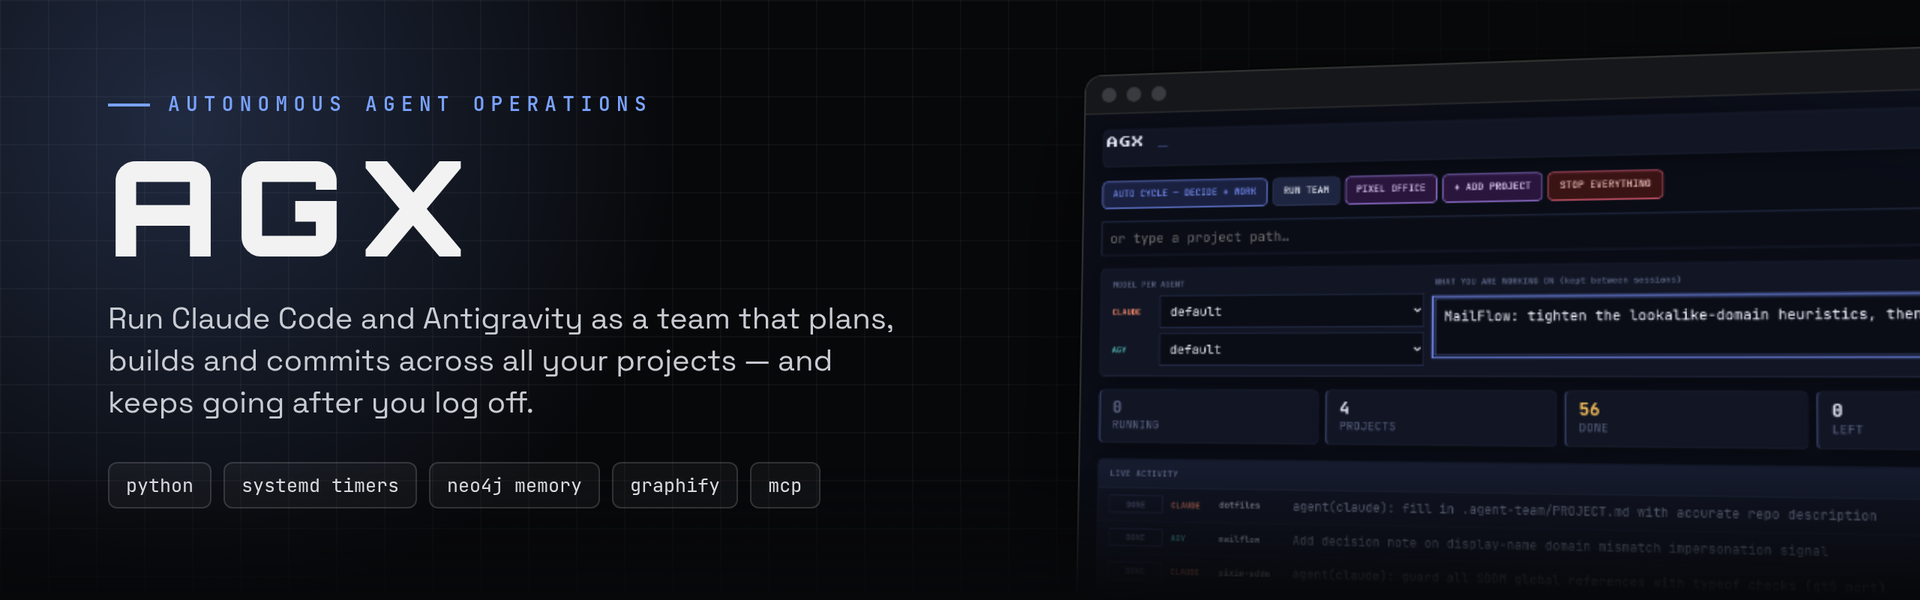
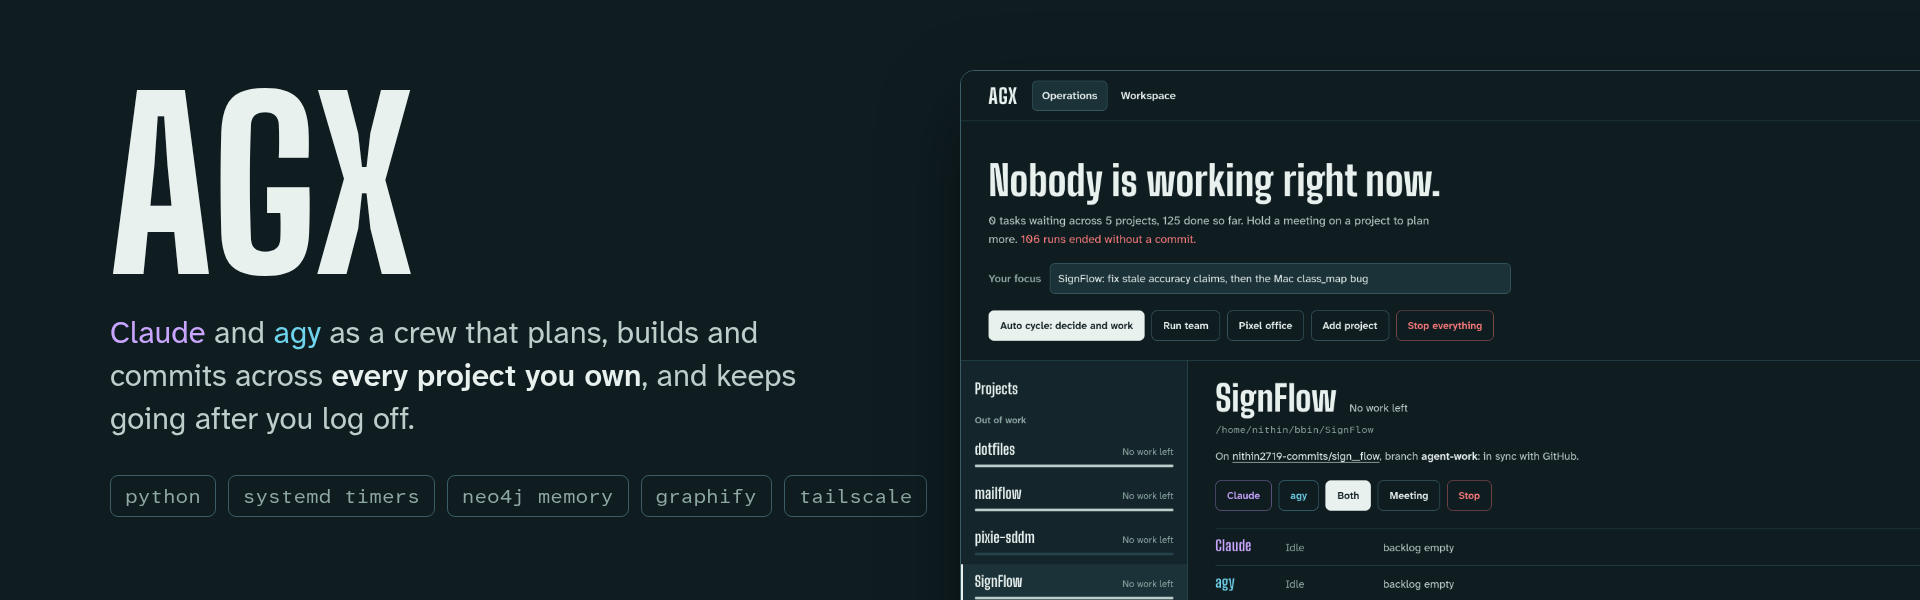
Show the new dashboard in the README and describe its layout
New banner and screenshots taken from the redesigned console with real
project data: the console on a desktop and one project on a phone. The
HOWTO's button guide now follows the list-and-detail layout and the
sentence-case button names.

diff --git a/HOWTO.md b/HOWTO.md
@@ -24,25 +24,30 @@ every restart, so a bookmarked URL goes stale.
 
 ## Doing work
 
-Everything is a button on the Operations tab. On each project card:
+The Operations tab opens with a sentence saying what the crew is doing, your
+focus note, and the whole-team buttons: **Auto cycle** (meet where work ran out,
+then work), **Run team**, **Pixel office**, **Add project** and **Stop everything**
+(kills every agent and turns off the timers).
+
+Below it, pick a project from the list on the left (on a phone, tap it; **All
+projects** goes back). Its page has:
 
 | Button | Meaning |
 |---|---|
-| **CLAUDE** / **AGY** | that agent does one task now |
-| **BOTH** | both agents, taking turns on the project |
-| **MEETING** | both agents discuss and agree the next tasks (10-20 min) |
-| **PLAN** | edit what you want them to do, then SAVE PLAN |
-| **ADD** | type a task straight into the backlog |
-| **ASK** | ask Claude or agy about the project, or WHAT HAPPENED? to read the logs |
-| **DETAILS** | meeting transcripts, work logs, recent commits |
-| **BUILD GRAPH** / **VIEW GRAPH** | rebuild or open the code knowledge graph |
-| **COMMIT** / **PUSH** | commit what the agents left, publish the branch (asks first) |
-| **STOP** | stop that project's agents |
+| **Claude** / **agy** | that agent does one task now |
+| **Both** | both agents, taking turns on the project |
+| **Meeting** | both agents discuss and agree the next tasks (10-20 min) |
+| **Stop** | stop that project's agents |
+| **Add** | type a task straight into the backlog |
+| **Plan** tab, **Edit plan** | what you want them to do; **Save plan** to keep it |
+| **Tasks** tab | every task, done, in progress and waiting |
+| **Ask** tab | ask Claude or agy about the project, or **What happened?** to read the logs |
+| **Details** tab | meeting transcripts, work logs, recent commits |
+| **Build graph** / **View graph** | rebuild or open the code knowledge graph |
+| **Commit** / **Push** | commit what the agents left, publish the branch (asks first) |
 
-Click a project's name for a full-screen view of it. Along the top:
-**AUTO CYCLE** (meet where work ran out, then work), **RUN TEAM**, **PIXEL OFFICE**,
-**+ ADD PROJECT** and **STOP EVERYTHING** (kills every agent and disables the timers).
-Typed text, open panels and the ask-the-agents chat survive the page's refresh.
+Typed text, draft plans and the conversation survive the page's refresh and
+switching between projects.
 
 Same thing from the terminal:
 
@@ -89,20 +94,20 @@ Put it on its own branch first so your `main` stays clean:
 
 Chat with the free models without spending Claude or agy quota.
 
-- **SMALL / BIG / VISION** picks the tier. The line under it says which model
+- **Small / Big / Vision** picks the model size. The line under it says which model
   answers that tier right now, and every reply names the model that wrote it.
 - **Model** picks one by name instead, e.g. NVIDIA's newest `z-ai/glm-5.x`,
   Kimi K3 or Qwen3 Coder 480B. It lists what each provider with a working key
   offers, so cloud models appear once you save a key (NVIDIA's is free at
   build.nvidia.com). **Auto** lets the tier choose and falls back between
   providers.
-- **ATTACH IMAGE** (or paste one) and ask about it. Images always go to the
+- **Attach image** (or paste one) and ask about it. Images always go to the
   vision tier, the same as `python3 router.py see <image>`.
-- **API keys**: paste a key next to a provider and press **SAVE**. It is written
+- **Models and keys**: open a provider, paste its key and press **Save key**. It is written
   to `config.env` with mode 600 and is never shown in the browser again.
-  **TEST** makes one tiny call and lists the model the provider would use for
+  **Test** makes one tiny call and lists the model the provider would use for
   each tier. With no keys at all, everything runs on Ollama if it is up.
-- **Generate an image** appears only after a provider passes **TEST IMAGE**
+- **Make an image** works only after a provider passes **Test images**
   with a real image. NVIDIA NIM and Gemini are the candidates. Ollama refuses
   image models over its API, so it is never offered.
 

diff --git a/README.md b/README.md
@@ -45,17 +45,17 @@ time, and sits idle whenever you are not driving it. AGX turns that into a team:
 
 ## Screenshots
 
-<img src="assets/dashboard.png" alt="AGX dashboard: control bar, model picker, stats and live activity feed" width="100%">
+<img src="assets/dashboard.png" alt="AGX console: a sentence saying what the crew is doing, the team buttons, the project list and one project's detail" width="100%">
 
-<p align="center"><sub><b>The console.</b> Start or stop the whole team, choose a model per agent, and watch every commit land in the live feed.</sub></p>
+<p align="center"><sub><b>The console.</b> It opens with what the crew is doing right now, then every project on the left and one project's agents, progress and buttons on the right.</sub></p>
 
 <table>
 <tr>
-<td width="40%" valign="top"><img src="assets/project-details.png" alt="A project card with plan, agent status, meetings, work logs and recent commits"></td>
+<td width="40%" valign="top"><img src="assets/project-details.png" alt="One project on a phone: its agents, progress and buttons"></td>
 <td width="60%" valign="top"><img src="assets/code-graph.png" alt="Graphify code graph for a project, coloured by community"></td>
 </tr>
 <tr>
-<td align="center"><sub><b>Project card.</b> Plan, agent status, planning meetings, work logs and recent commits.</sub></td>
+<td align="center"><sub><b>On your phone.</b> Over Tailscale a project opens on its own screen, with its plan, tasks, meetings and logs a tab away.</sub></td>
 <td align="center"><sub><b>Code graph.</b> The Graphify map agents navigate by: 282 nodes, 585 edges, 14 communities.</sub></td>
 </tr>
 </table>
